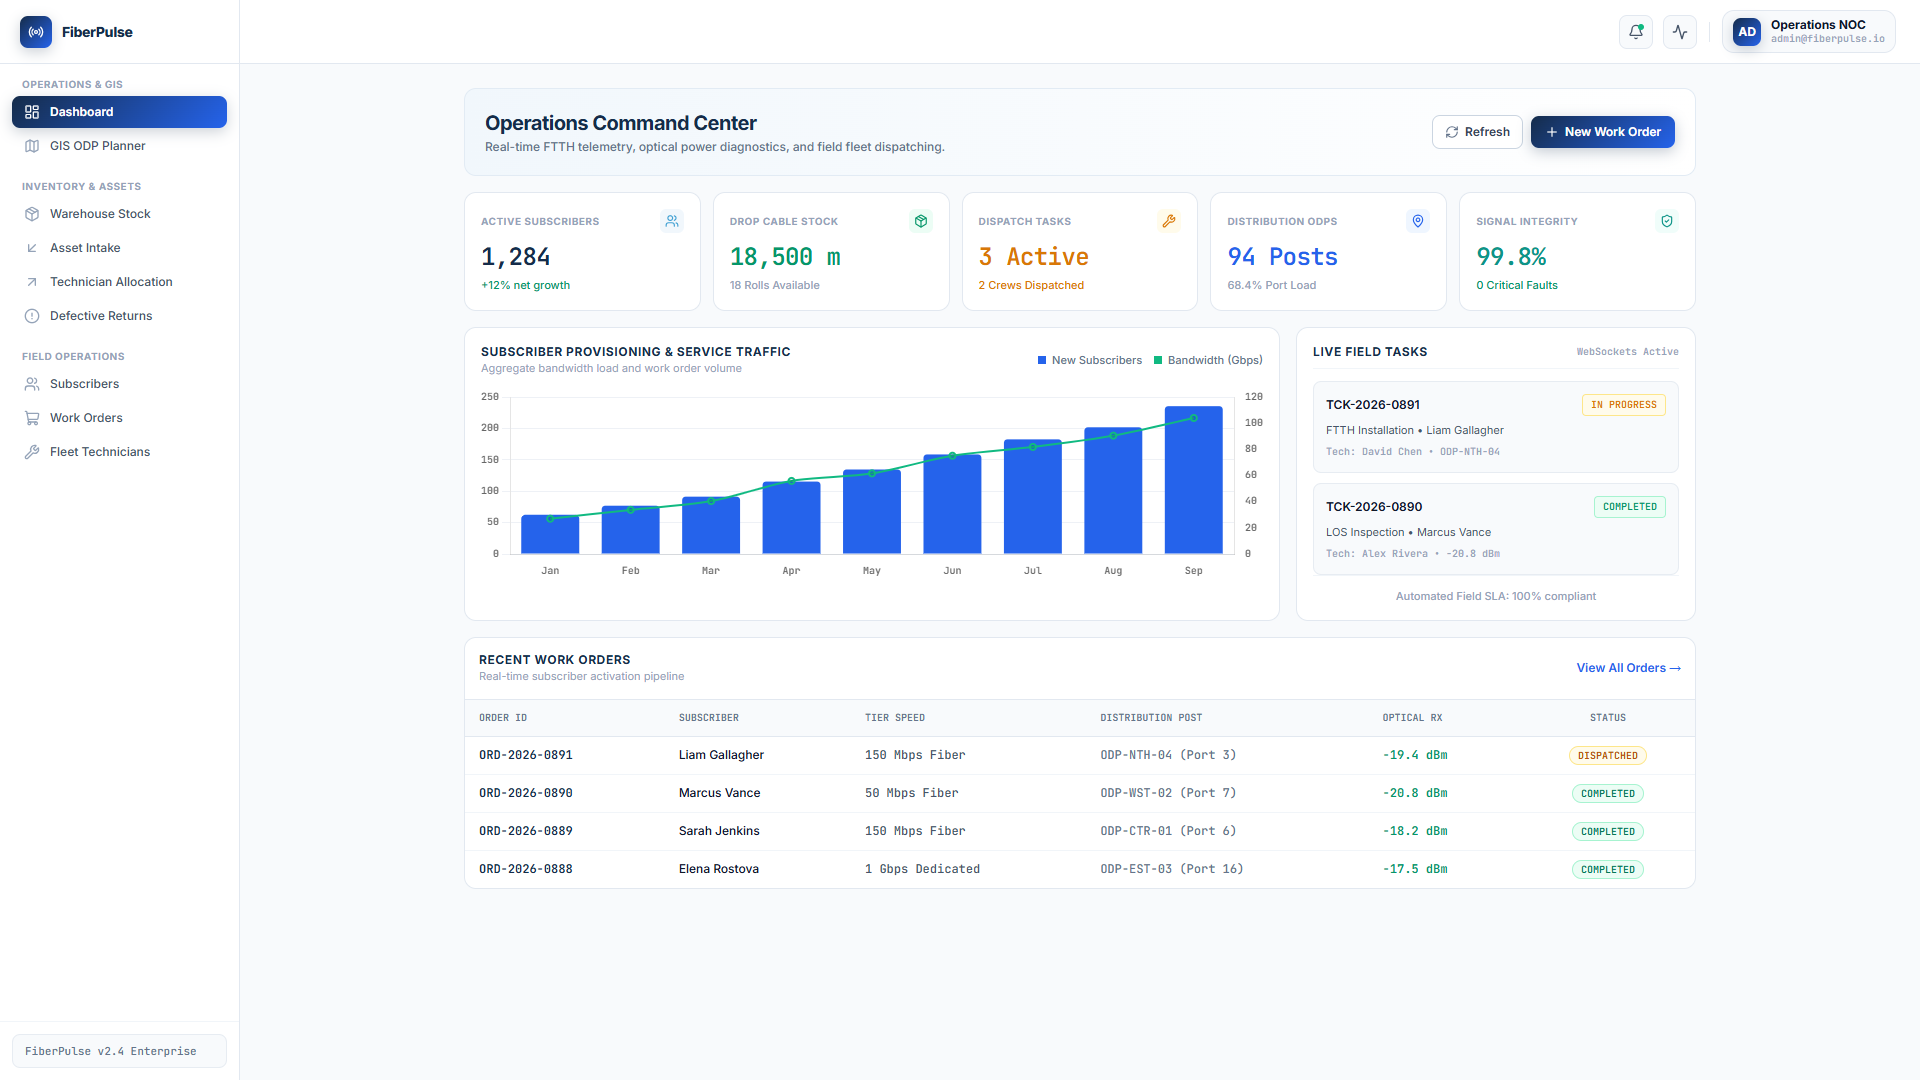
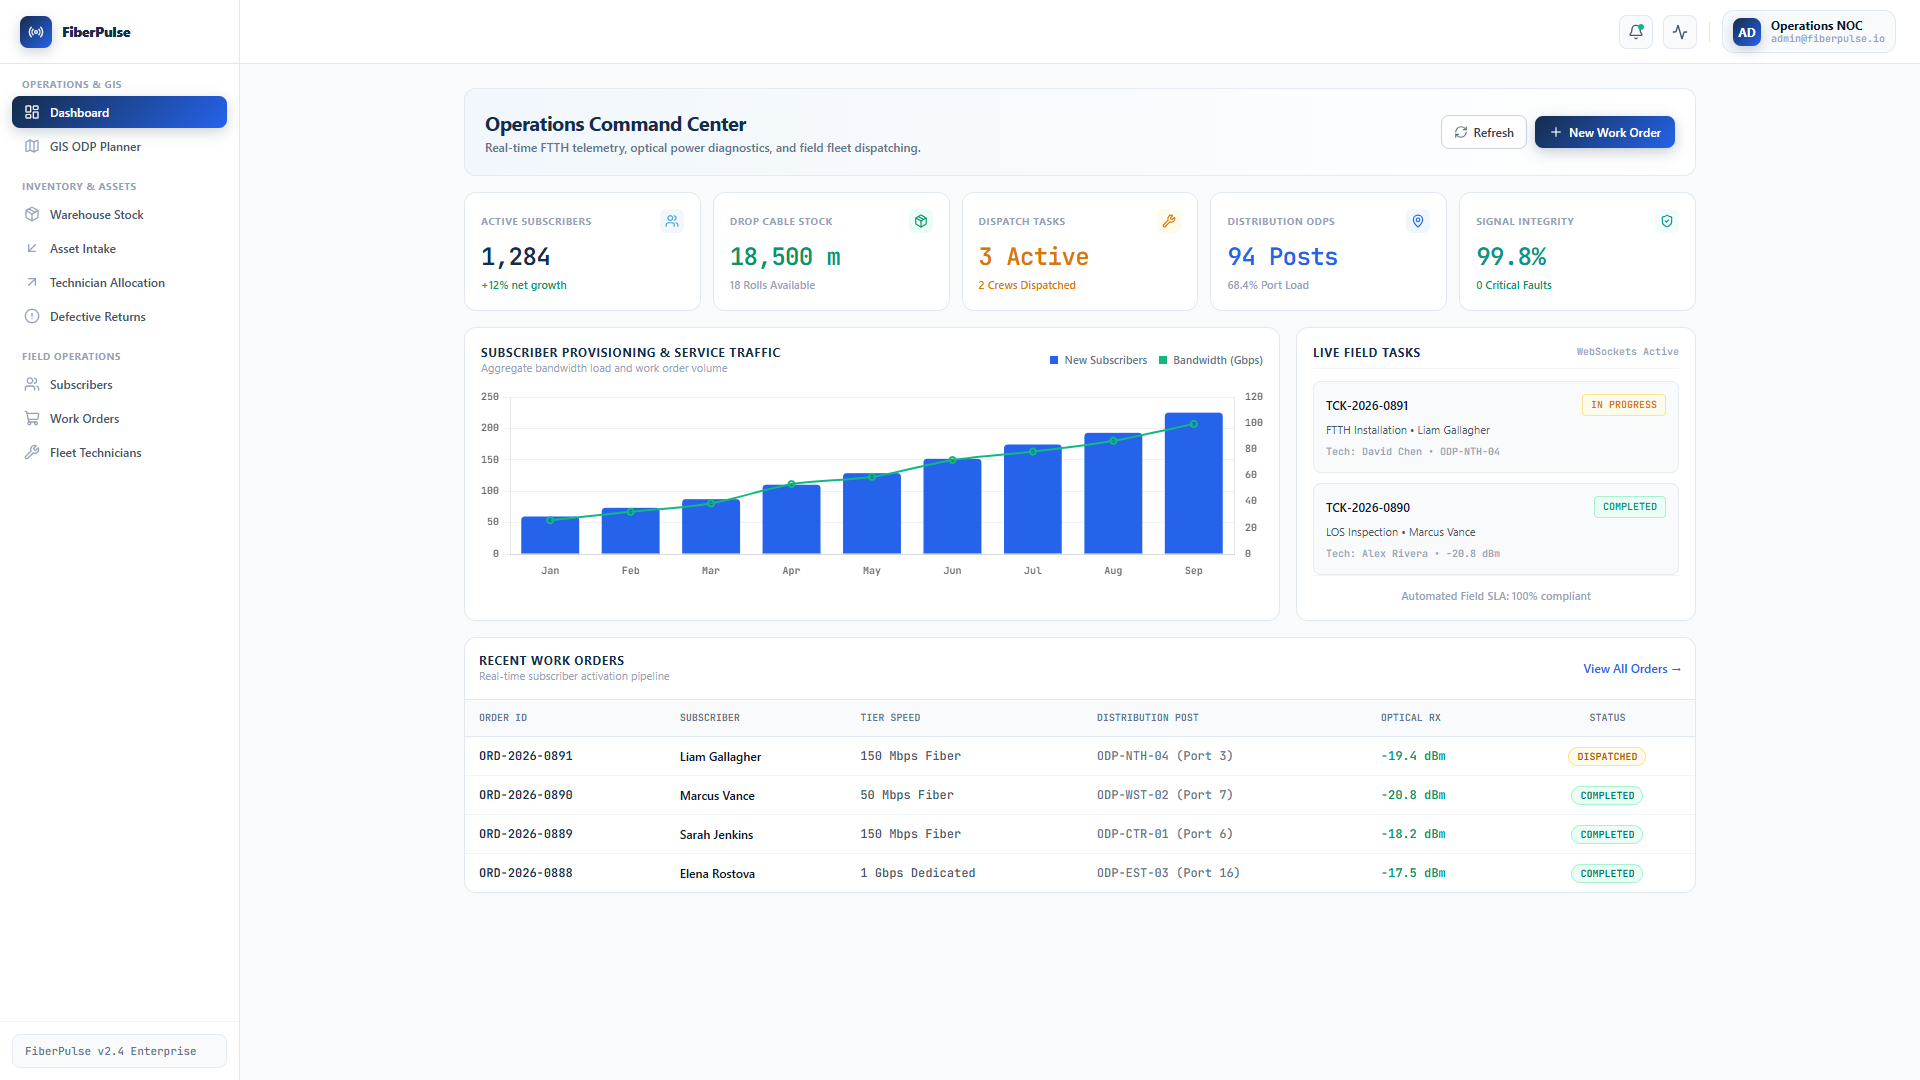
style(design): standardize typography on Meta enterprise design system specs and update renders

diff --git a/docs/dashboard_v2.html b/docs/dashboard_v2.html
@@ -1,14 +1,14 @@
-<!DOCTYPE html>
+<!DOCTYPE html>
 <html lang="en">
 <head>
   <meta charset="UTF-8" />
   <meta name="viewport" content="width=device-width, initial-scale=1.0" />
   <title>FiberPulse - Operations Command Center</title>
   
-  <!-- Modern Clean Typography: Inter & JetBrains Mono -->
+  <!-- Meta Design System Typography Stack: Optimistic / Apple System / Segoe UI / Roboto -->
   <link rel="preconnect" href="https://fonts.googleapis.com">
   <link rel="preconnect" href="https://fonts.gstatic.com" crossorigin>
-  <link href="https://fonts.googleapis.com/css2?family=Inter:wght@400;500;600;700;800&family=JetBrains+Mono:wght@500;600&display=swap" rel="stylesheet">
+  <link href="https://fonts.googleapis.com/css2?family=Roboto:wght@400;500;600;700&family=JetBrains+Mono:wght@500;600&display=swap" rel="stylesheet">
   
   <!-- Tailwind CSS CDN -->
   <script src="https://cdn.tailwindcss.com"></script>
@@ -17,8 +17,8 @@
       theme: {
         extend: {
           fontFamily: {
-            sans: ['"Inter"', '-apple-system', 'BlinkMacSystemFont', 'sans-serif'],
-            mono: ['"JetBrains Mono"', 'monospace'],
+            sans: ['"Optimistic Text"', '"Optimistic Display"', '-apple-system', 'BlinkMacSystemFont', '"Segoe UI"', 'Roboto', 'Helvetica', 'Arial', 'sans-serif'],
+            mono: ['"SF Mono"', '"JetBrains Mono"', 'monospace'],
           },
           colors: {
             brand: {
@@ -41,6 +41,11 @@
   <script src="https://cdn.jsdelivr.net/npm/chart.js"></script>
 
   <style>
+    body {
+      font-family: "Optimistic Text", "Optimistic Display", -apple-system, BlinkMacSystemFont, "Segoe UI", Roboto, Helvetica, Arial, sans-serif;
+      -webkit-font-smoothing: antialiased;
+      -moz-osx-font-smoothing: grayscale;
+    }
     ::-webkit-scrollbar { width: 5px; height: 5px; }
     ::-webkit-scrollbar-track { background: transparent; }
     ::-webkit-scrollbar-thumb { background: #CBD5E1; border-radius: 999px; }

diff --git a/docs/order_modal.html b/docs/order_modal.html
@@ -1,14 +1,14 @@
-<!DOCTYPE html>
+<!DOCTYPE html>
 <html lang="en">
 <head>
   <meta charset="UTF-8" />
   <meta name="viewport" content="width=device-width, initial-scale=1.0" />
   <title>FiberPulse - Operations Command Center</title>
   
-  <!-- Modern Clean Typography: Inter & JetBrains Mono -->
+  <!-- Meta Design System Typography Stack: Optimistic / Apple System / Segoe UI / Roboto -->
   <link rel="preconnect" href="https://fonts.googleapis.com">
   <link rel="preconnect" href="https://fonts.gstatic.com" crossorigin>
-  <link href="https://fonts.googleapis.com/css2?family=Inter:wght@400;500;600;700;800&family=JetBrains+Mono:wght@500;600&display=swap" rel="stylesheet">
+  <link href="https://fonts.googleapis.com/css2?family=Roboto:wght@400;500;600;700&family=JetBrains+Mono:wght@500;600&display=swap" rel="stylesheet">
   
   <!-- Tailwind CSS CDN -->
   <script src="https://cdn.tailwindcss.com"></script>
@@ -17,8 +17,8 @@
       theme: {
         extend: {
           fontFamily: {
-            sans: ['"Inter"', '-apple-system', 'BlinkMacSystemFont', 'sans-serif'],
-            mono: ['"JetBrains Mono"', 'monospace'],
+            sans: ['"Optimistic Text"', '"Optimistic Display"', '-apple-system', 'BlinkMacSystemFont', '"Segoe UI"', 'Roboto', 'Helvetica', 'Arial', 'sans-serif'],
+            mono: ['"SF Mono"', '"JetBrains Mono"', 'monospace'],
           },
           colors: {
             brand: {
@@ -41,6 +41,11 @@
   <script src="https://cdn.jsdelivr.net/npm/chart.js"></script>
 
   <style>
+    body {
+      font-family: "Optimistic Text", "Optimistic Display", -apple-system, BlinkMacSystemFont, "Segoe UI", Roboto, Helvetica, Arial, sans-serif;
+      -webkit-font-smoothing: antialiased;
+      -moz-osx-font-smoothing: grayscale;
+    }
     ::-webkit-scrollbar { width: 5px; height: 5px; }
     ::-webkit-scrollbar-track { background: transparent; }
     ::-webkit-scrollbar-thumb { background: #CBD5E1; border-radius: 999px; }

diff --git a/docs/technician_v2.html b/docs/technician_v2.html
@@ -5,10 +5,10 @@
   <meta name="viewport" content="width=390, height=844, initial-scale=1.0, maximum-scale=1.0, user-scalable=no" />
   <title>FiberPulse Field - GIS ODP Network</title>
   
-  <!-- Modern Clean Typography: Inter & JetBrains Mono -->
+  <!-- Meta Design System Typography Stack: Optimistic / Apple System / Segoe UI / Roboto -->
   <link rel="preconnect" href="https://fonts.googleapis.com">
   <link rel="preconnect" href="https://fonts.gstatic.com" crossorigin>
-  <link href="https://fonts.googleapis.com/css2?family=Inter:wght@400;500;600;700;800&family=JetBrains+Mono:wght@500;600&display=swap" rel="stylesheet">
+  <link href="https://fonts.googleapis.com/css2?family=Roboto:wght@400;500;600;700&family=JetBrains+Mono:wght@500;600&display=swap" rel="stylesheet">
   
   <!-- Tailwind CSS CDN -->
   <script src="https://cdn.tailwindcss.com"></script>
@@ -17,8 +17,8 @@
       theme: {
         extend: {
           fontFamily: {
-            sans: ['"Inter"', '-apple-system', 'BlinkMacSystemFont', 'sans-serif'],
-            mono: ['"JetBrains Mono"', 'monospace'],
+            sans: ['"Optimistic Text"', '"Optimistic Display"', '-apple-system', 'BlinkMacSystemFont', '"Segoe UI"', 'Roboto', 'Helvetica', 'Arial', 'sans-serif'],
+            mono: ['"SF Mono"', '"JetBrains Mono"', 'monospace'],
           },
           colors: {
             brand: {
@@ -44,7 +44,9 @@
     }
     body {
       background-color: #0F172A;
-      font-family: 'Inter', sans-serif;
+      font-family: "Optimistic Text", "Optimistic Display", -apple-system, BlinkMacSystemFont, "Segoe UI", Roboto, Helvetica, Arial, sans-serif;
+      -webkit-font-smoothing: antialiased;
+      -moz-osx-font-smoothing: grayscale;
       margin: 0;
       padding: 0;
       width: 390px;

diff --git a/DESIGN.md b/DESIGN.md
@@ -1,4 +1,4 @@
-# FiberPulse Enterprise Design System Specification
+# FiberPulse Enterprise Design System Specification
 
 This document defines the single source of truth (SSOT) for the UI/UX architecture, visual identity, typography, component hierarchy, and responsive layout standards for the FiberPulse Operations Platform.
 
@@ -30,18 +30,31 @@ This document defines the single source of truth (SSOT) for the UI/UX architectu
 
 ---
 
-## 2. Typography System
+## 2. Typography System (Meta Enterprise Standards)
 
-* **Primary Font Family:** `Plus Jakarta Sans`, `Inter`, `-apple-system`, `BlinkMacSystemFont`, `sans-serif`
-* **Technical / Data Font Family:** `JetBrains Mono`, `monospace` (Used for: IP Addresses, Serial Numbers (SN), Rx Power dBm, Order Numbers, Port IDs)
-* **Strict Hierarchy:**
-  * **Page Heading (H1):** `text-lg sm:text-xl font-bold text-[#152C4A] tracking-tight`
-  * **Section Heading (H2/H3):** `text-xs sm:text-sm font-bold text-[#152C4A] uppercase tracking-wider`
-  * **Metric Large Numbers:** `text-xl sm:text-2xl font-bold text-[#152C4A] tracking-tight`
-  * **Body / Table Data:** `text-xs font-medium text-slate-700`
-  * **Subtext & Microcopy:** `text-[11px] text-slate-500 font-normal`
-  * **Uppercase Badges & Labels:** `text-[10px] font-bold uppercase tracking-wider`
-* **Zero Emojis Policy:** Absolute zero emojis in UI buttons, tables, cards, and system status to maintain a high-end corporate enterprise look. All visual cues use clean Lucide SVG icons.
+FiberPulse adopts Meta's enterprise product design system typography standards (Astryx & Meta Business Suite specification), prioritizing optical clarity, high x-height, and semantic type tokens.
+
+### 2.1 Font Family Stacks
+* **Primary Interface Stack (Meta System Sans):**
+  `"Optimistic Text", -apple-system, BlinkMacSystemFont, "Segoe UI", Roboto, Helvetica, Arial, sans-serif`
+* **Headline & Display Stack:**
+  `"Optimistic Display", -apple-system, BlinkMacSystemFont, "Segoe UI", Roboto, Helvetica, Arial, sans-serif`
+* **Technical & Telemetry Monospace Stack:**
+  `"SF Mono", "JetBrains Mono", "Roboto Mono", Menlo, Consolas, monospace`
+  *(Strictly utilized for: IP Addresses, MAC addresses, Serial Numbers (SN), Optical Rx Power dBm, Work Order IDs, and Port Matrix indices)*
+
+### 2.2 Typographic Hierarchy & Scale (1.2 Geometric Scale)
+* **Page Title (Display / H1):** `text-lg sm:text-xl font-bold text-[#152C4A] tracking-tight` (18px - 20px, Leading: 24px)
+* **Card & Section Header (H2/H3):** `text-xs sm:text-sm font-semibold text-[#152C4A] tracking-normal` (13px - 14px, Leading: 18px)
+* **Metric Hero Numbers:** `text-xl sm:text-2xl font-bold text-[#152C4A] tracking-tight` (22px - 24px, Tabular figures)
+* **Body / Table Cells:** `text-xs font-normal sm:font-medium text-slate-700` (12px - 13px, Leading: 16px)
+* **Meta Secondary Subtext & Timestamps:** `text-[11px] text-slate-500 font-normal` (11px, Leading: 14px)
+* **Status Badges & Matrix Labels:** `text-[10px] font-semibold tracking-wider uppercase` (10px)
+
+### 2.3 Strict Typography Rules
+1. **Zero Emojis Policy:** Absolute zero emojis in UI buttons, tables, cards, and system status to maintain a high-end corporate enterprise look. All visual cues use clean Lucide SVG icons.
+2. **Tabular Numerics:** All network metrics, throughputs, and fiber power levels use monospace tabular figures (`JetBrains Mono` / `SF Mono`) to prevent layout jitter on live WebSocket updates.
+3. **No Faux Italics:** In accordance with Meta Horizon & Astryx guidelines, oblique/italic text is avoided in operational dashboards to preserve high-contrast readability.
 
 ---
 

diff --git a/docs/DESIGN.md b/docs/DESIGN.md
@@ -1,4 +1,4 @@
-# FiberPulse Enterprise Design System Specification
+# FiberPulse Enterprise Design System Specification
 
 This document defines the single source of truth (SSOT) for the UI/UX architecture, visual identity, typography, component hierarchy, and responsive layout standards for the FiberPulse Operations Platform.
 
@@ -30,18 +30,31 @@ This document defines the single source of truth (SSOT) for the UI/UX architectu
 
 ---
 
-## 2. Typography System
+## 2. Typography System (Meta Enterprise Standards)
 
-* **Primary Font Family:** `Plus Jakarta Sans`, `Inter`, `-apple-system`, `BlinkMacSystemFont`, `sans-serif`
-* **Technical / Data Font Family:** `JetBrains Mono`, `monospace` (Used for: IP Addresses, Serial Numbers (SN), Rx Power dBm, Order Numbers, Port IDs)
-* **Strict Hierarchy:**
-  * **Page Heading (H1):** `text-lg sm:text-xl font-bold text-[#152C4A] tracking-tight`
-  * **Section Heading (H2/H3):** `text-xs sm:text-sm font-bold text-[#152C4A] uppercase tracking-wider`
-  * **Metric Large Numbers:** `text-xl sm:text-2xl font-bold text-[#152C4A] tracking-tight`
-  * **Body / Table Data:** `text-xs font-medium text-slate-700`
-  * **Subtext & Microcopy:** `text-[11px] text-slate-500 font-normal`
-  * **Uppercase Badges & Labels:** `text-[10px] font-bold uppercase tracking-wider`
-* **Zero Emojis Policy:** Absolute zero emojis in UI buttons, tables, cards, and system status to maintain a high-end corporate enterprise look. All visual cues use clean Lucide SVG icons.
+FiberPulse adopts Meta's enterprise product design system typography standards (Astryx & Meta Business Suite specification), prioritizing optical clarity, high x-height, and semantic type tokens.
+
+### 2.1 Font Family Stacks
+* **Primary Interface Stack (Meta System Sans):**
+  `"Optimistic Text", -apple-system, BlinkMacSystemFont, "Segoe UI", Roboto, Helvetica, Arial, sans-serif`
+* **Headline & Display Stack:**
+  `"Optimistic Display", -apple-system, BlinkMacSystemFont, "Segoe UI", Roboto, Helvetica, Arial, sans-serif`
+* **Technical & Telemetry Monospace Stack:**
+  `"SF Mono", "JetBrains Mono", "Roboto Mono", Menlo, Consolas, monospace`
+  *(Strictly utilized for: IP Addresses, MAC addresses, Serial Numbers (SN), Optical Rx Power dBm, Work Order IDs, and Port Matrix indices)*
+
+### 2.2 Typographic Hierarchy & Scale (1.2 Geometric Scale)
+* **Page Title (Display / H1):** `text-lg sm:text-xl font-bold text-[#152C4A] tracking-tight` (18px - 20px, Leading: 24px)
+* **Card & Section Header (H2/H3):** `text-xs sm:text-sm font-semibold text-[#152C4A] tracking-normal` (13px - 14px, Leading: 18px)
+* **Metric Hero Numbers:** `text-xl sm:text-2xl font-bold text-[#152C4A] tracking-tight` (22px - 24px, Tabular figures)
+* **Body / Table Cells:** `text-xs font-normal sm:font-medium text-slate-700` (12px - 13px, Leading: 16px)
+* **Meta Secondary Subtext & Timestamps:** `text-[11px] text-slate-500 font-normal` (11px, Leading: 14px)
+* **Status Badges & Matrix Labels:** `text-[10px] font-semibold tracking-wider uppercase` (10px)
+
+### 2.3 Strict Typography Rules
+1. **Zero Emojis Policy:** Absolute zero emojis in UI buttons, tables, cards, and system status to maintain a high-end corporate enterprise look. All visual cues use clean Lucide SVG icons.
+2. **Tabular Numerics:** All network metrics, throughputs, and fiber power levels use monospace tabular figures (`JetBrains Mono` / `SF Mono`) to prevent layout jitter on live WebSocket updates.
+3. **No Faux Italics:** In accordance with Meta Horizon & Astryx guidelines, oblique/italic text is avoided in operational dashboards to preserve high-contrast readability.
 
 ---
 
